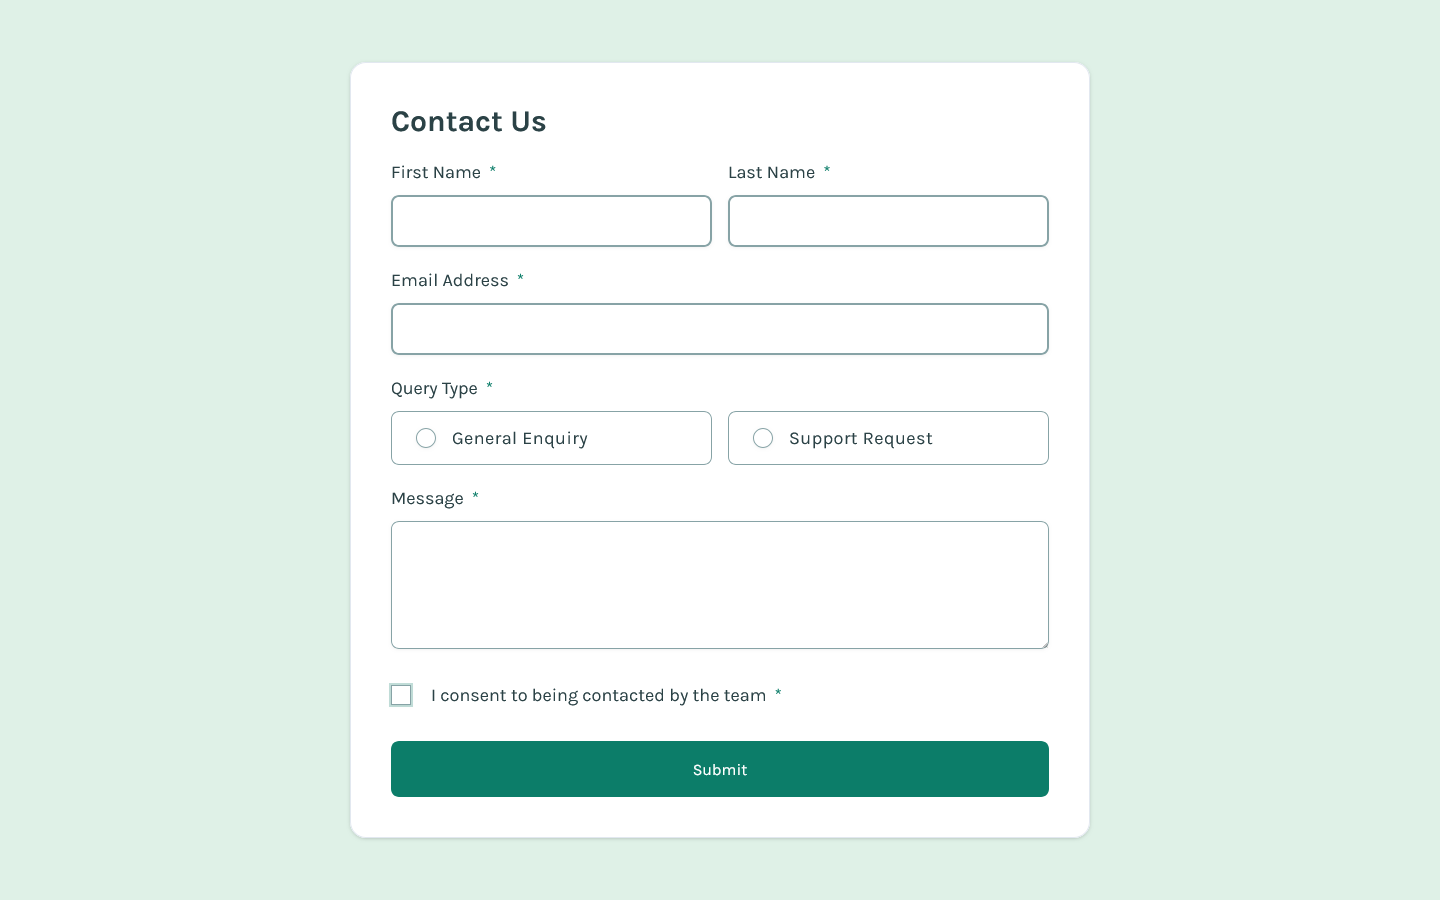
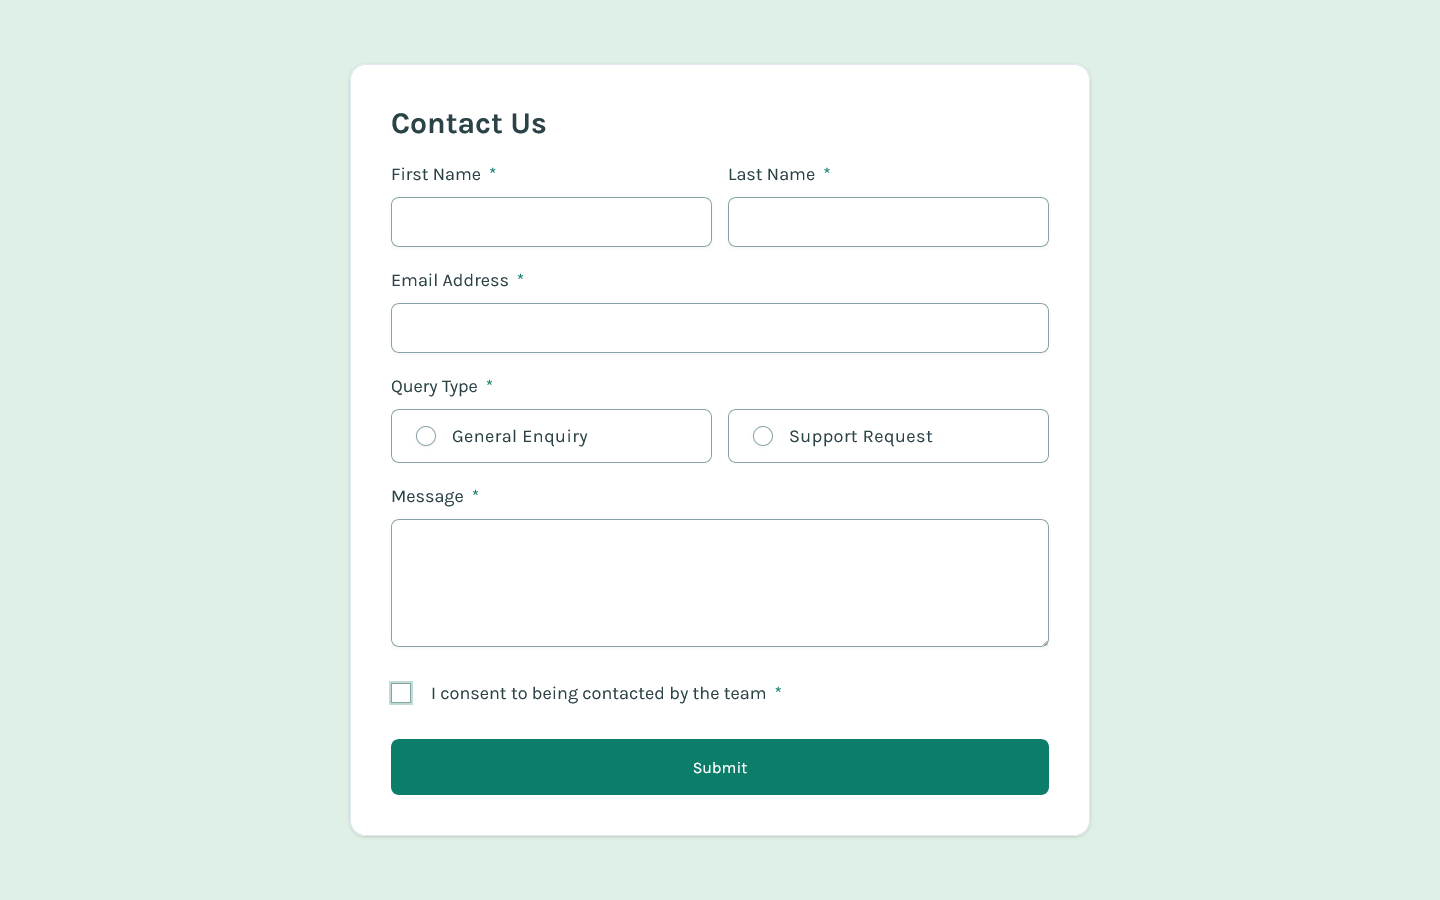
fix: input borders

diff --git a/src/components/ui/input.tsx b/src/components/ui/input.tsx
@@ -8,7 +8,7 @@ function Input({ className, type, ...props }: React.ComponentProps<"input">) {
       type={type}
       data-slot="input"
       className={cn(
-        "file:text-foreground placeholder:text-muted-foreground selection:bg-primary selection:text-primary-foreground dark:bg-input/30 border-input flex h-9 w-full min-w-0 rounded-primary border-2 bg-transparent px-6 py-6 shadow-xs transition-[color,box-shadow] outline-none file:inline-flex file:h-7 file:border-0 file:bg-transparent file:text-sm file:font-medium disabled:pointer-events-none disabled:cursor-not-allowed disabled:opacity-50",
+        "file:text-foreground placeholder:text-muted-foreground selection:bg-primary selection:text-primary-foreground dark:bg-input/30 border-input flex h-9 w-full min-w-0 rounded-primary border bg-transparent px-6 py-6 shadow-xs transition-[color,box-shadow] outline-none file:inline-flex file:h-7 file:border-0 file:bg-transparent file:text-sm file:font-medium disabled:pointer-events-none disabled:cursor-not-allowed disabled:opacity-50",
         "focus-visible:border-primary",
         "aria-invalid:ring-destructive/20 dark:aria-invalid:ring-destructive/40 aria-invalid:border-destructive cursor-pointer focus-visible:cursor-text hover:border-primary",
         className
